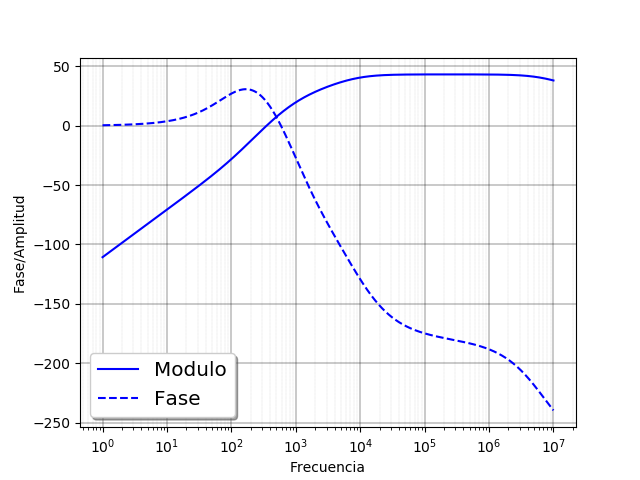
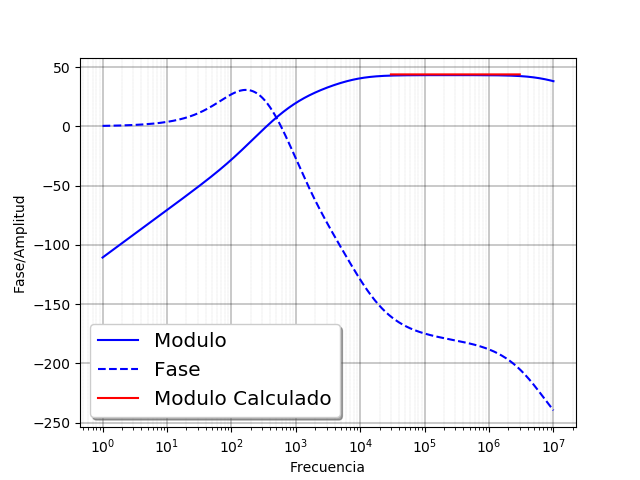
j

diff --git a/Informe/TP FE.tex b/Informe/TP FE.tex
@@ -93,7 +93,7 @@ Como el LED utilizado para simulación no fue exactamente el utilizado en el lab
 
 \subsection*{Simulación de Circuito con Transistor}
 
-Se procedió a realizar la simulación del siguiente circuito en \texttt{ltspice}:
+Se procedió a realizar la simulación del siguiente circuito en \texttt{ltspice} el cual es un amplificador mediante el uso de un transistor npn BC547B:
 \begin{figure}[H]
 	\centering
 	\includegraphics[width=0.6 \textwidth]{commonEmitter.jpg}	
@@ -112,7 +112,7 @@ Para este circuito se realizo el análisis de pequeña señal, reduciéndolo al 
 A partir de este modelo se pudo calcular la transferencia quedando esta de la siguiente manera \[H(s)=\frac{R_1\parallel R_2\parallel R_\pi}{R_g+R_1\parallel R_2\parallel R_\pi}\cdot \frac{1}{R_\pi} \cdot \beta \cdot r_0 \parallel R_c \parallel R_L  \]
 Obteniendo los valores de $R_\pi = 6,32 \cdot 10^{3} \ \Omega$ a partir de la formula \[R_\pi = \frac{V_T}{I_c}\cdot (\beta +1) \] utilizando Ic del spice y calculando $V_T$ $\approx 25 \ mV$ (temperatura ambiente).
 El valor de $R_0$ fue sacado de la simulación. El valor de $\beta$ fue sacado de la datasheet , dado a que el fabricante da un rango de valores, elegimos un valor de 295. 
-Analizando la función transferencia de tensión de este, se observa que la transferencia para la zona constante es de $44,36 \ dB$, siendo de $43,19 \ dB$ el valor obtenido en simulación.
+Analizando la función transferencia de tensión de este, se observa que la transferencia para la zona constante es de $43.82 \ dB$, siendo de $43,19 \ dB$ el valor obtenido en simulación.
 
 \begin{figure}[H]
 	\centering
@@ -120,7 +120,7 @@ Analizando la función transferencia de tensión de este, se observa que la tran
 	\caption{Diagrama de BODE para el circuito dado siendo la curva de mayor trazo el diagrama de amplitud.}
 	\label{fig:bode}
 \end{figure}
-
+Se puede observar la zona de validez para el cualculo.
 \subsection*{Simulación del Circuito con Diodo}
 
 Se quizo analizar la respuesta en frecuencia del circuito en la figura (\ref{circ:3}) con \texttt{ltspice}, obteniendo el diagrama de Bode en la figura (\ref{fig:rtaf}).

diff --git a/Graficos Buenos/Trans.py b/Graficos Buenos/Trans.py
@@ -82,6 +82,10 @@ for x in range (542,len(fase)):
     fase[x] = fase[x]-360
 plt.plot(frec,modulo,'b',label ='Modulo')
 plt.plot(frec,fase,'b--',label = 'Fase')
+t = np.arange(30e3, 3e6, 100)
+Hcalc = np.full(29700, 43.82)
+#dA 43.82
+plt.plot(t,Hcalc,'r',label ='Modulo Calculado')
 legend = plt.legend(loc='lower left', shadow=True, fontsize='x-large')
 plt.xscale('log')
 plt.ylabel("Fase/Amplitud")
